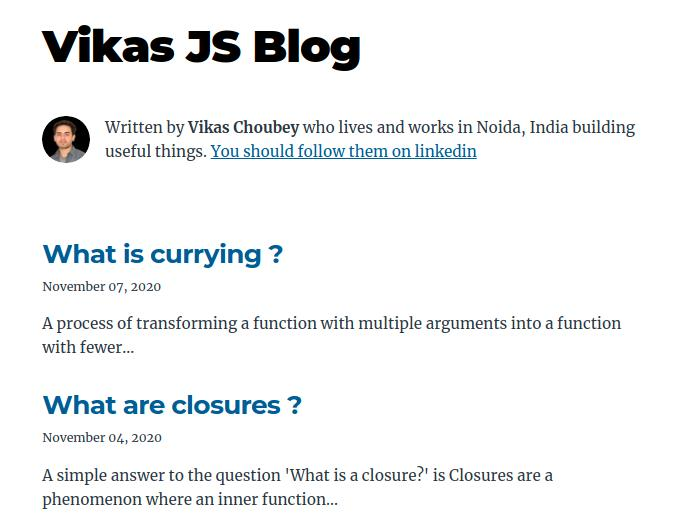
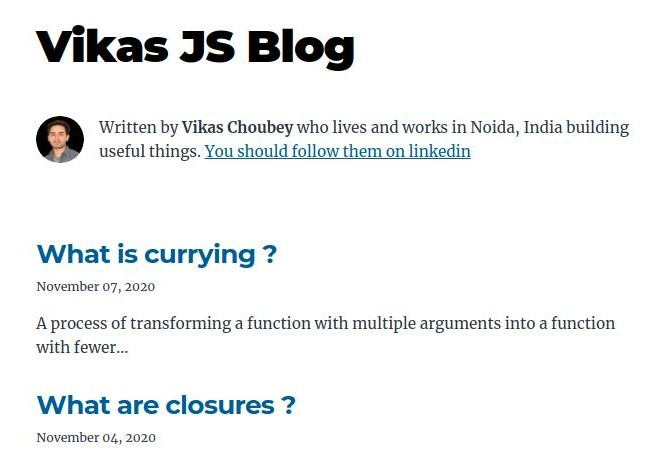
test 3

Changed region(s): [[0.0604, 0.4605, 0.9366, 0.9825], [0.0302, 0.2149, 0.9668, 0.3684], [0.0302, 0.0307, 0.5438, 0.1535]]

diff --git a/main.min.css b/main.min.css
@@ -1,1 +1,1 @@
-@import url(https://fonts.googleapis.com/css2?family=Montserrat:wght@300;500&display=swap);@import url(https://fonts.googleapis.com/css2?family=Audiowide&display=swap);*{box-sizing:border-box}body{margin:0;padding:0;border:0;font-family:Montserrat,sans-serif;width:100vw;overflow-x:hidden}.landing{width:100vw;height:100vh;background-color:rgba(0,0,0,.877);background-image:url(images/background-img-min.png);background-size:cover;z-index:-2;padding:15%}.header-content{font-family:Rubik,sans-serif;display:flex;flex-direction:column;justify-content:center;align-items:center;color:#fff;font-size:2.5rem;font-weight:200;padding:3%}#highlight-name{color:#ea2c62;font-size:3rem}.header-content a{border:2px solid #fff;padding:2%;font-size:1rem;margin-top:10%;font-weight:400}.header-content a:hover{background-color:#ea2c62b2;border:2px solid #ea2c62b2}.header-content>a{text-decoration:none;color:#fff;border-radius:2px}#logo{height:6vh;background-color:transparent}.navbar{background-color:#141414;width:100vw;display:flex;align-items:center;border-bottom:3px solid #08f;position:fixed;top:0;overflow-y:hidden;z-index:10;padding:0}.navbar-links ul{margin:0;display:flex;align-items:center;font-weight:200;font-size:1.2rem}.navbar-links li{list-style:none}.email-id,.navbar-links li a{color:#fff;text-decoration:none;padding:.5rem;display:block}.navbar-links li a:hover{color:#ea2c62d3}.toggle-button{position:absolute;top:.8rem;right:1.5rem;display:none;flex-direction:column;justify-content:space-between;width:30px;height:20px;cursor:pointer}.toggle-button .bar{height:3px;width:100%;background-color:#fff;border-radius:10px}#contact-email i:hover,.bar:focus,.bar:hover,.social i:hover{color:#ea2c62d3}.container-section{padding:5%;margin-top:5%}.sub-section{display:flex;justify-content:space-around;align-items:center;margin-bottom:2%}.sub-section a{text-align:center}#about-websites{display:flex;flex-wrap:wrap;justify-content:center;margin-top:5%;margin-bottom:5%;width:100%}.two-features{display:flex;justify-content:space-between;align-items:center}.section-heading{text-align:center;font-size:2rem;font-weight:500;text-decoration:underline;margin:2%;color:#252934}.feature-container{display:flex;flex-direction:column;align-items:center;padding:2%;width:50%}.feature-container i{font-size:2.5rem;color:#08f}.feature-name{margin-bottom:-2%;color:#252934}.feature-desc{color:#2529349e;text-align:center;width:80%}#portfolio{background-color:#f5f5f5}.blog-link{width:40%}.img-description{color:#252934c3;width:60%;font-size:1.1em;line-height:150%;padding:2%}#profile-pic{width:30%;border-radius:100em;border:3px solid #08f}.project-btn-container{margin-bottom:6%;text-align:center}.portfolio-btn{background-color:transparent;border:none;outline:0;font-size:large;font-weight:500;cursor:pointer;padding:1%;border-radius:3px}.portfolio-btn:hover{background-color:#ea2c62c8;color:#fff}.hide{display:none}.project-section{display:grid;gap:.5rem;grid-template-columns:repeat(auto-fit,minmax(300px,2fr));align-content:center;justify-items:center}.selected{background-color:#08f;color:#fff}.sub-section a img{width:70%;border-radius:2%;box-shadow:0 0 5px grey;transition:transform .5s}.blog-img:focus,.blog-img:hover,.project-img:focus,.project-img:hover{transform:scale(1.1)}#contact{position:relative;width:100vw;height:40vh;padding-top:3%;text-align:center;background-color:#252934;border-top:3px solid #08f;color:#fff}.home-link{margin-top:-2%;margin-bottom:5%}.home-link a{color:#fff;text-decoration:none;font-size:2rem}.heading{margin:-1% 0 4% 0;text-decoration:underline}.social{margin:20px}.social i{font-size:2rem;color:#fff}.email-id{font-size:1.5rem}footer{position:absolute;bottom:10px;font-size:small;text-align:center;width:100%}@media (max-width:600px){.section-heading{padding:3%}.landing{padding-top:30%}.header-content{font-size:1.3rem}#highlight-name{font-size:1.5rem}.navbar-links{display:none;width:100%}.toggle-button{display:flex}.navbar{flex-direction:column;align-items:flex-start}.navbar-links ul{flex-direction:column;width:100%;padding:0}.navbar-links li{width:100%;text-align:center}.navbar-links li a{padding:.5rem}.navbar-links.active{display:flex}#profile-pic{width:50%}.img-description{line-height:normal;width:100%}.feature-container i,h2{font-size:1.5em}}@media (max-width:400px){.landing{padding-left:2%;padding-right:2%}.header-content{padding-top:10vh;font-size:1.3rem;line-height:200%}#highlight-name{font-size:1.3rem}.container-section{height:auto}.sub-section{flex-direction:column}.sub-section a{width:80%}.project-img{width:90vw;height:30vh}.img-description{padding-left:22%}}
+@import url(https://fonts.googleapis.com/css2?family=Montserrat:wght@300;500&display=swap);@import url(https://fonts.googleapis.com/css2?family=Audiowide&display=swap);*{box-sizing:border-box}body{margin:0;padding:0;border:0;font-family:Montserrat,sans-serif;width:100vw;overflow-x:hidden}.landing{width:100vw;height:100vh;background-color:rgba(0,0,0,.877);background-image:url(images/background-img-min.png);background-size:cover;z-index:-2;padding:15%}.header-content{font-family:Rubik,sans-serif;display:flex;flex-direction:column;justify-content:center;align-items:center;color:#fff;font-size:2.5rem;font-weight:200;padding:3%}#highlight-name{color:#ea2c62;font-size:3rem}.header-content a{border:2px solid #fff;padding:2%;font-size:1rem;margin-top:10%;font-weight:400}.header-content a:hover{background-color:#ea2c62b2;border:2px solid #ea2c62b2}.header-content>a{text-decoration:none;color:#fff;border-radius:2px}#logo{height:6vh;background-color:transparent}.navbar{background-color:#141414;width:100vw;display:flex;align-items:center;border-bottom:3px solid #08f;position:fixed;top:0;overflow-y:hidden;z-index:10;padding:0}.navbar-links ul{margin:0;display:flex;align-items:center;font-weight:200;font-size:1.2rem}.navbar-links li{list-style:none}.email-id,.navbar-links li a{color:#fff;text-decoration:none;padding:.5rem;display:block}.navbar-links li a:hover{color:#ea2c62d3}.toggle-button{position:absolute;top:.8rem;right:1.5rem;display:none;flex-direction:column;justify-content:space-between;width:30px;height:20px;cursor:pointer}.toggle-button .bar{height:3px;width:100%;background-color:#fff;border-radius:10px}#contact-email i:hover,.bar:focus,.bar:hover,.social i:hover{color:#ea2c62d3}.container-section{padding:5%;margin-top:5%}.sub-section{display:flex;justify-content:space-around;align-items:center;margin-bottom:2%}.sub-section a{text-align:center}#about-websites{display:flex;flex-wrap:wrap;justify-content:center;margin-top:5%;margin-bottom:5%;width:100%}.two-features{display:flex;justify-content:space-between;align-items:center}.section-heading{text-align:center;font-size:2rem;font-weight:500;text-decoration:underline;margin:2%;color:#252934}.feature-container{display:flex;flex-direction:column;align-items:center;padding:2%;width:50%}.feature-container i{font-size:2.5rem;color:#08f}.feature-name{margin-bottom:-2%;color:#252934}.feature-desc{color:#2529349e;text-align:center;width:80%}#portfolio{background-color:#f5f5f5}.blog-link{width:40%}.img-description{color:#252934c3;width:60%;font-size:1.1em;line-height:150%;padding:2%}#profile-pic{width:30%;border-radius:100em;border:3px solid #08f}.project-btn-container{margin-bottom:6%;text-align:center}.portfolio-btn{background-color:transparent;border:none;outline:0;font-size:large;font-weight:500;cursor:pointer;padding:1%;border-radius:3px}.portfolio-btn:hover{background-color:#ea2c62c8;color:#fff}.hide{display:none}.project-section{display:grid;gap:.5rem;grid-template-columns:repeat(auto-fit,minmax(300px,2fr));align-content:center;justify-items:center}.selected{background-color:#08f;color:#fff}.sub-section a img{width:70%;border-radius:2%;box-shadow:0 0 5px grey;transition:transform .5s}.blog-img:focus,.blog-img:hover,.project-img:focus,.project-img:hover{transform:scale(1.1)}#contact{position:relative;width:100vw;height:40vh;padding-top:3%;text-align:center;background-color:#252934;border-top:3px solid #08f;color:#fff}.home-link{margin-top:-2%;margin-bottom:5%}.home-link a{color:#fff;text-decoration:none;font-size:2rem}.heading{margin:-1% 0 4% 0;text-decoration:underline}.social{margin:20px}.social i{font-size:2rem;color:#fff}.email-id{font-size:1.5rem}footer{position:absolute;bottom:10px;font-size:small;text-align:center;width:100%}@media (max-width:600px){.section-heading{padding:3%}.landing{padding-top:30%}.header-content{font-size:1.3rem}#highlight-name{font-size:1.5rem}.navbar-links{display:none;width:100%}.toggle-button{display:flex}.navbar{flex-direction:column;align-items:flex-start}.navbar-links ul{flex-direction:column;width:100%;padding:0}.navbar-links li{width:100%;text-align:center}.navbar-links li a{padding:.5rem}.navbar-links.active{display:flex}#profile-pic{width:50%}.img-description{line-height:normal;width:100%}.feature-container i,h2{font-size:1.5em}}@media (max-width:400px){#logo{height:10vh}.landing{padding-left:2%;padding-right:2%}.header-content{padding-top:10vh;font-size:1.3rem;line-height:330%}#highlight-name{font-size:1.5rem}.container-section{height:auto}.sub-section{flex-direction:column}.sub-section a{width:90%}.sub-section a img{width:100%}.img-description{padding-left:5%}}

diff --git a/main.css b/main.css
@@ -371,6 +371,9 @@ footer {
 }
 
 @media (max-width: 400px) {
+  #logo {
+    height: 10vh;
+  }
   .landing {
     padding-left: 2%;
     padding-right: 2%;
@@ -379,11 +382,11 @@ footer {
   .header-content {
     padding-top: 10vh;
     font-size: 1.3rem;
-    line-height: 200%;
+    line-height: 330%;
   }
 
   #highlight-name {
-    font-size: 1.3rem;
+    font-size: 1.5rem;
   }
 
   .container-section {
@@ -394,14 +397,14 @@ footer {
   }
 
   .sub-section a {
-    width: 80%;
+    width: 90%;
   }
-  .project-img {
-    width: 90vw;
-    height: 30vh;
+
+  .sub-section a img {
+    width: 100%;
   }
 
   .img-description {
-    padding-left: 22%;
+    padding-left: 5%;
   }
 }
